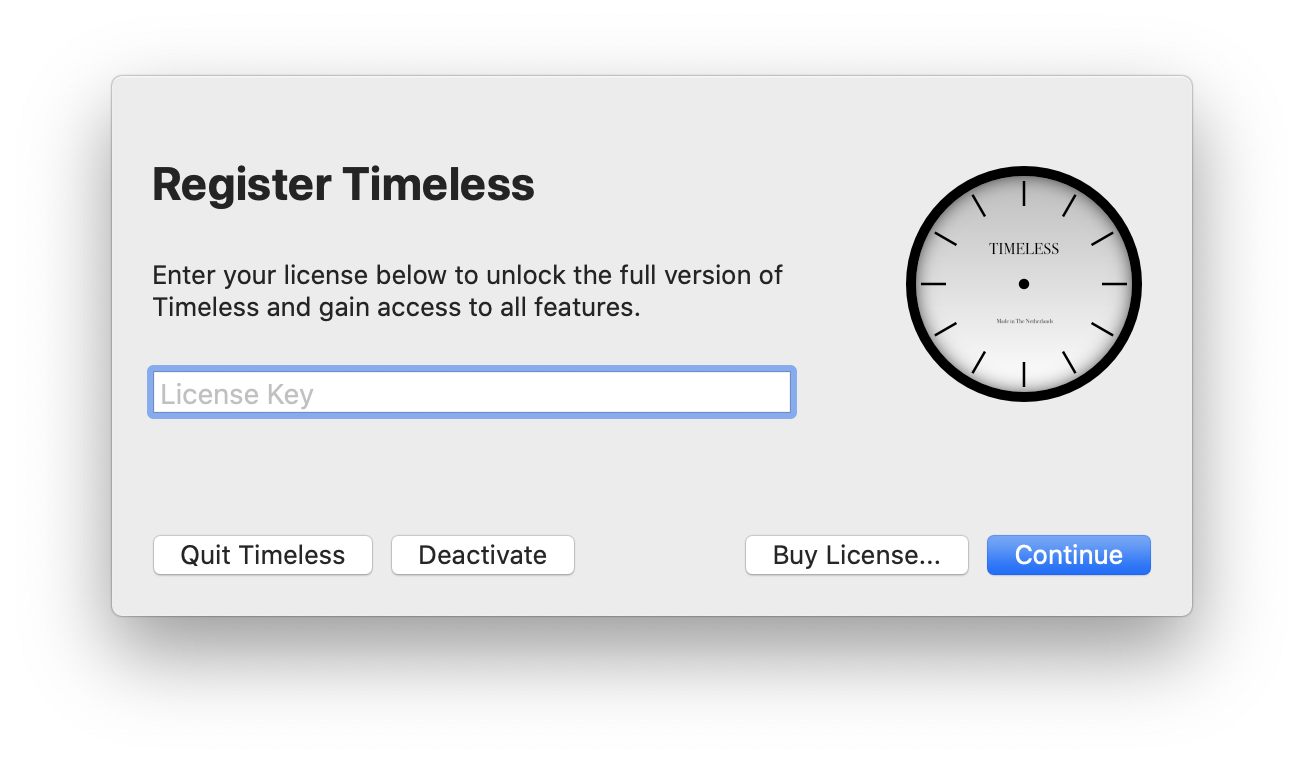
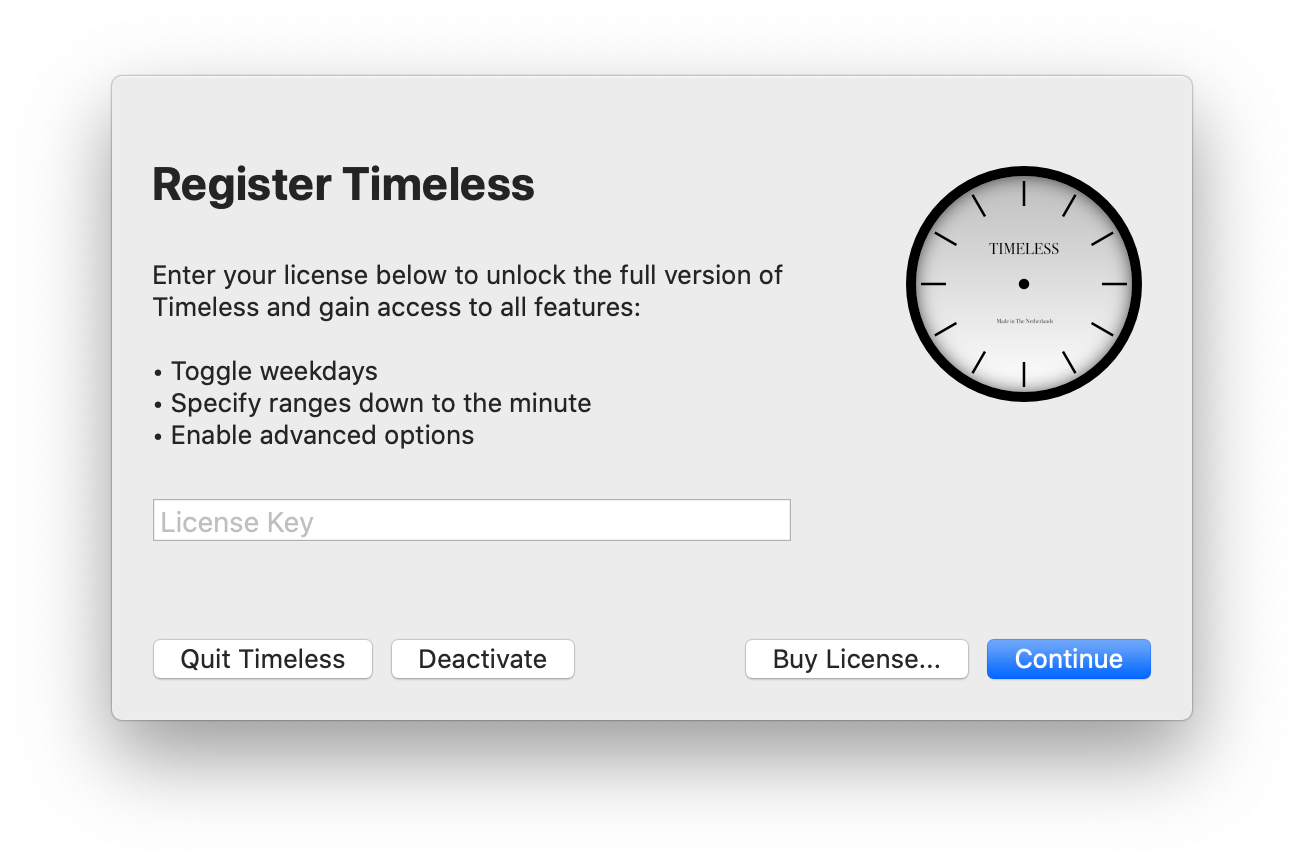
Update /timeless and /pipvid

diff --git a/timeless.html b/timeless.html
@@ -117,18 +117,23 @@ gumroad:
 <section class="section">
   <div class="container">
     <div class="columns">
-      <div class="column is-5">
-        <figure class="box">
-          <img src="/assets/img/app/timeless-status-item-time@2x.jpg" alt="A screenshot of the time displayed by timeless in the menu bar" style="width: 800px;">
-          <figcaption>When inactive, show the time.</figcaption>
-        </figure>
-      </div>
-      <div class="column is-offset-1 is-6">
+      <div class="column is-6">
         <div class="content is-medium">
           <h2 class="title is-2">Easy to adopt</h2>
           <p>Don't worry about losing time completely with Timeless. You can optionally display a clock when you're not working.</p>
           <p>If the indicator isn't showing a range, it can display the time instead. Just like you were used to.</p>
+          <p>You can even customize which date components are shown in the menu bar. Show just the time. Add the day of the week or even the full date.</p>
         </div>
+      </div>
+      <div class="column is-5 is-offset-1">
+        <figure class="box">
+          <img src="/assets/img/app/timeless-status-item-time@2x.jpg" alt="A screenshot of the time displayed by timeless in the menu bar" style="width: 800px;">
+          <figcaption>When inactive, show the time.</figcaption>
+        </figure>
+        <figure class="box">
+          <img src="/assets/img/app/timeless-preferences-clock.png" alt="A screenshot of the (optional) clock's preferences window" style="width: 692px;">
+          <figcaption>Customize the optional clock's format.</figcaption>
+        </figure>
       </div>
     </div>
   </div>
@@ -140,13 +145,49 @@ gumroad:
       <div class="column is-5">
         <figure class="box">
           <img src="/assets/img/app/timeless-registration.png" alt="A screenshot of the registration window." style="width: 652px;">
-          <figcaption>Press <em>Buy License...</em> to get a $1 discount.</figcaption>
+          <figcaption>Try a limited version of Timeless for free.</figcaption>
         </figure>
       </div>
       <div class="column is-offset-1 is-6">
         <div class="content is-medium">
-          <h2 class="title is-2">Try it!</h2>
-          <p>If you <a href="{{ page.download }}">install the free version</a> and press the <em>Buy License...</em>-button in the app, you'll get $1 off your purchase.</p>
+          <h2 class="title is-2">Upgrade to get extra features</h2>
+          <p>Download and <a href="{{ page.download }}">install the free trial version</a> to try Timeless for as long as you like. Buy a license to get access to additional features that make Timeless even better.</p>
+          <table class="features-table">
+            <thead class="features-table__head">
+              <tr class="features-table__row">
+                <th class="table-cell table-cell--header"></th>
+                <th class="table-cell table-cell--header">Free</th>
+                <th class="table-cell table-cell--header">Pro</th>
+              </tr>
+            </thead>
+            <tbody class="features-table__body">
+              <tr class="features-table__row">
+                <td class="features-table__cell table-cell table-cell--title"><p>Customize ranges per hour.</p></td>
+                <td class="features-table__cell table-cell table-cell--check">✓</td>
+                <td class="features-table__cell table-cell table-cell--check">✓</td>
+              </tr>
+              <tr>
+                <td class="features-table__cell table-cell table-cell--title"><p>Specify ranges down to the minute.</p></td>
+                <td class="features-table__cell table-cell table-cell--cross">⨯</td>
+                <td class="features-table__cell table-cell table-cell--check">✓</td>
+              </tr>
+              <tr>
+                <td class="features-table__cell table-cell table-cell--title"><p>Toggle weekdays.</p></td>
+                <td class="features-table__cell table-cell table-cell--cross">⨯</td>
+                <td class="features-table__cell table-cell table-cell--check">✓</td>
+              </tr>
+              <tr>
+                <td class="features-table__cell table-cell table-cell--title"><p>Connect last and first time entries<br><small>on consecutive, enabled days.</small></p></td>
+                <td class="features-table__cell table-cell table-cell--cross">⨯</td>
+                <td class="features-table__cell table-cell table-cell--check">✓</td>
+              </tr>
+              <tr>
+                <td class="features-table__cell table-cell table-cell--title"><p>Customize the (optional) clock's format.</p></td>
+                <td class="features-table__cell table-cell table-cell--cross">⨯</td>
+                <td class="features-table__cell table-cell table-cell--check">✓</td>
+              </tr>
+            </tbody>
+          </table>
         </div>
       </div>
     </div>

diff --git a/pipvid.html b/pipvid.html
@@ -141,13 +141,13 @@ gumroad:
       <div class="column is-6">
         <figure class="box">
           <img src="/assets/img/app/pipvid-registration.png" alt="A screenshot of the registration window." style="width: 652px;">
-          <figcaption>Press <em>Buy License...</em> to get a $1 discount.</figcaption>
+          <figcaption>Try a limited version of Pipvid for free.</figcaption>
         </figure>
       </div>
       <div class="column is-offset-1 is-5">
         <div class="content is-medium">
           <h2 class="title is-2">Try it!</h2>
-          <p>If you <a href="{{ page.download }}">install the free trial version</a> and press the <em>Buy License...</em>-button in the app, you'll get $1 off your purchase.</p>
+          <p>If you <a href="{{ page.download }}">install the free trial version</a> you can use it for free for a few minutes. Enough to get a sense of how convenient it is.</p>
         </div>
       </div>
     </div>

diff --git a/_sass/custom/table.scss b/_sass/custom/table.scss
@@ -1,0 +1,17 @@
+.table-cell {
+  &--check, &--cross {
+    text-align: center;
+  }
+  &--check {
+    color: $success;
+  }
+  &--cross {
+    color: $danger;
+  }
+}
+
+.features-table {
+  .table-cell--header {
+    text-align: center;
+  }
+}

diff --git a/_sass/custom.scss b/_sass/custom.scss
@@ -12,6 +12,7 @@
 @import 'custom/app';
 @import 'custom/page';
 @import 'custom/post';
+@import 'custom/table';
 
 // Imagery
 @import 'custom/logo';
